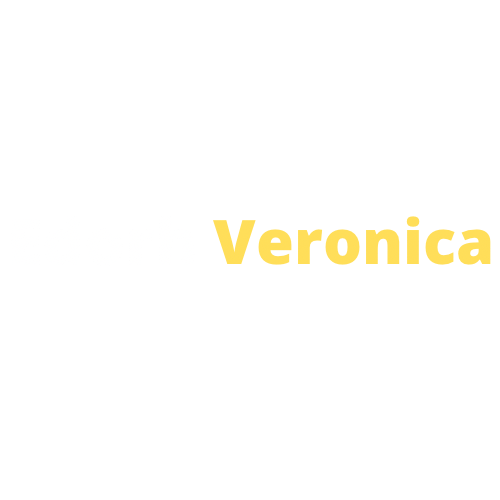
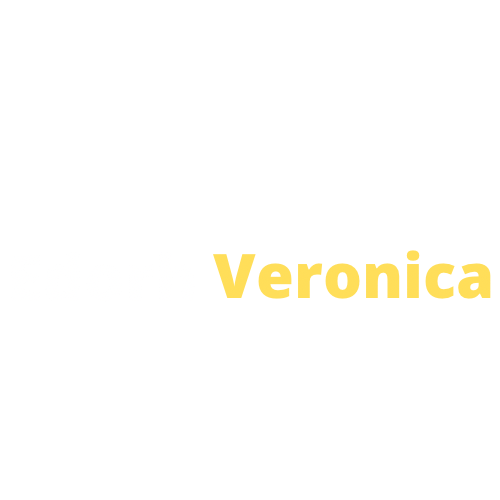
updated header

Changed region(s): [[0.42, 0.42, 0.99, 0.6]]

diff --git a/css/base.css b/css/base.css
@@ -42,7 +42,7 @@ header {
 header img {
     width: 155px;
     margin-top: -53.5px;
-    margin-bottom: -48px;
+    margin-bottom: -48.5px;
 }
 
 nav ul {
